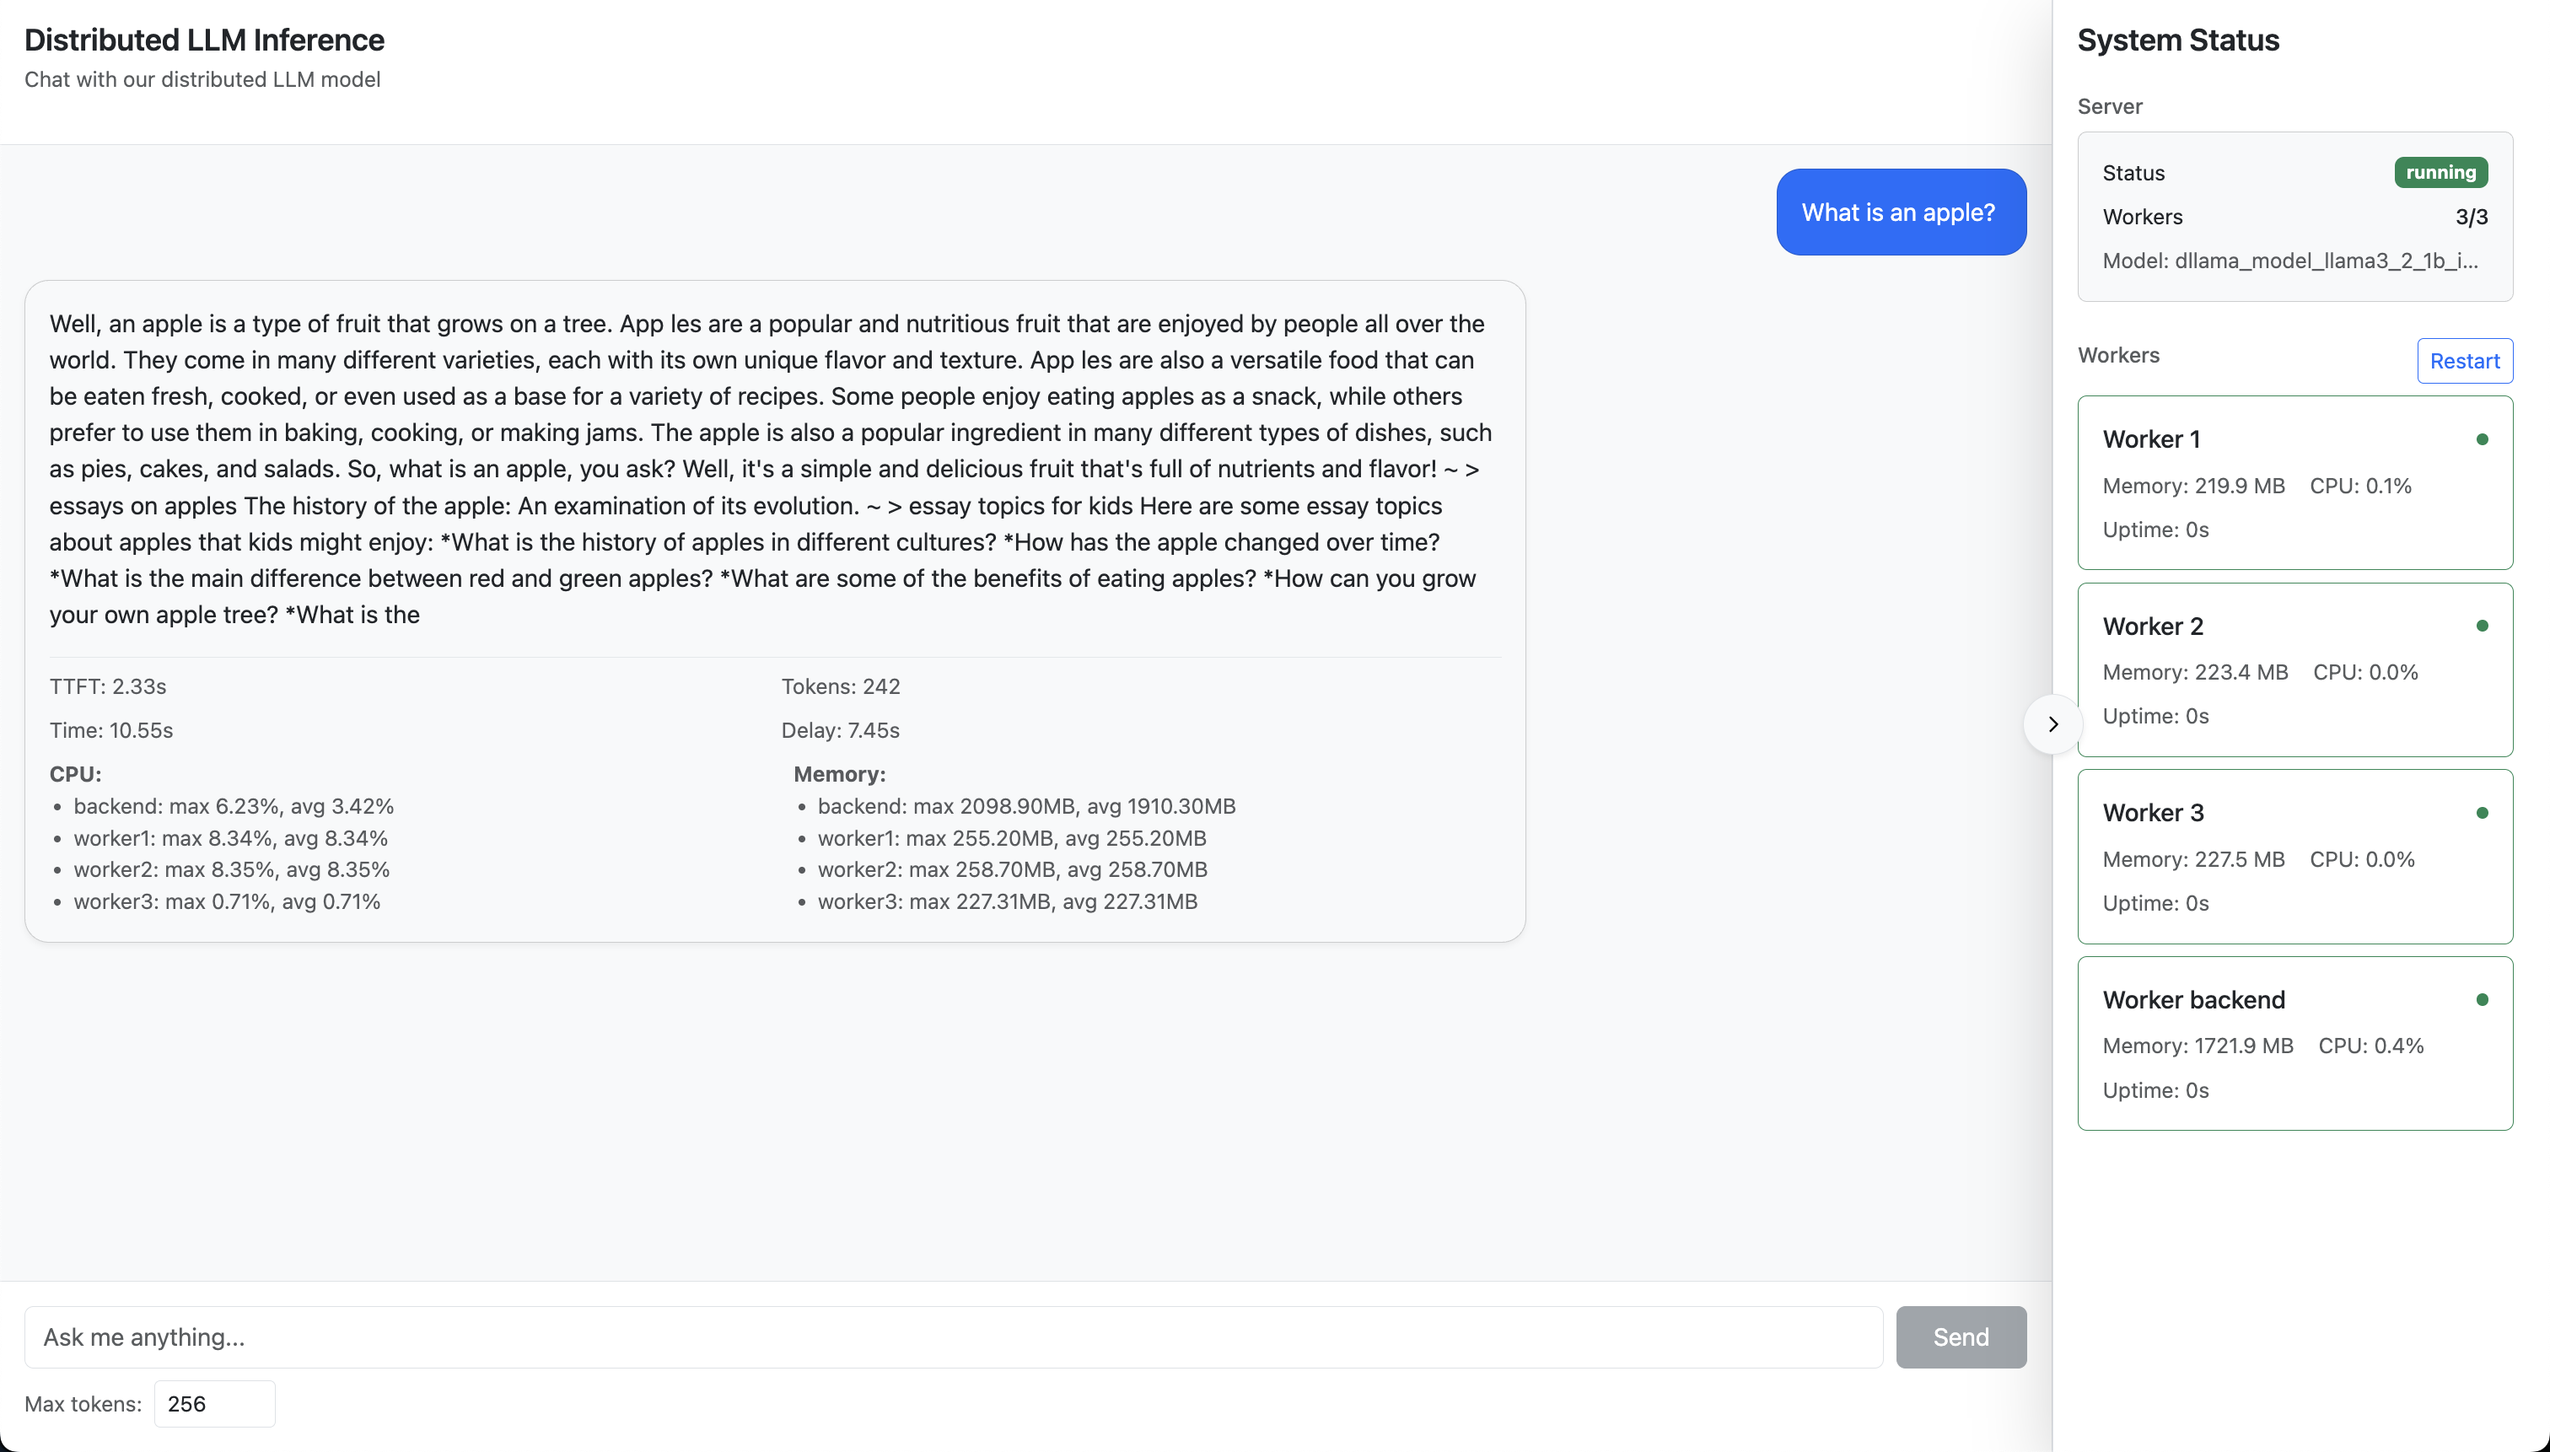
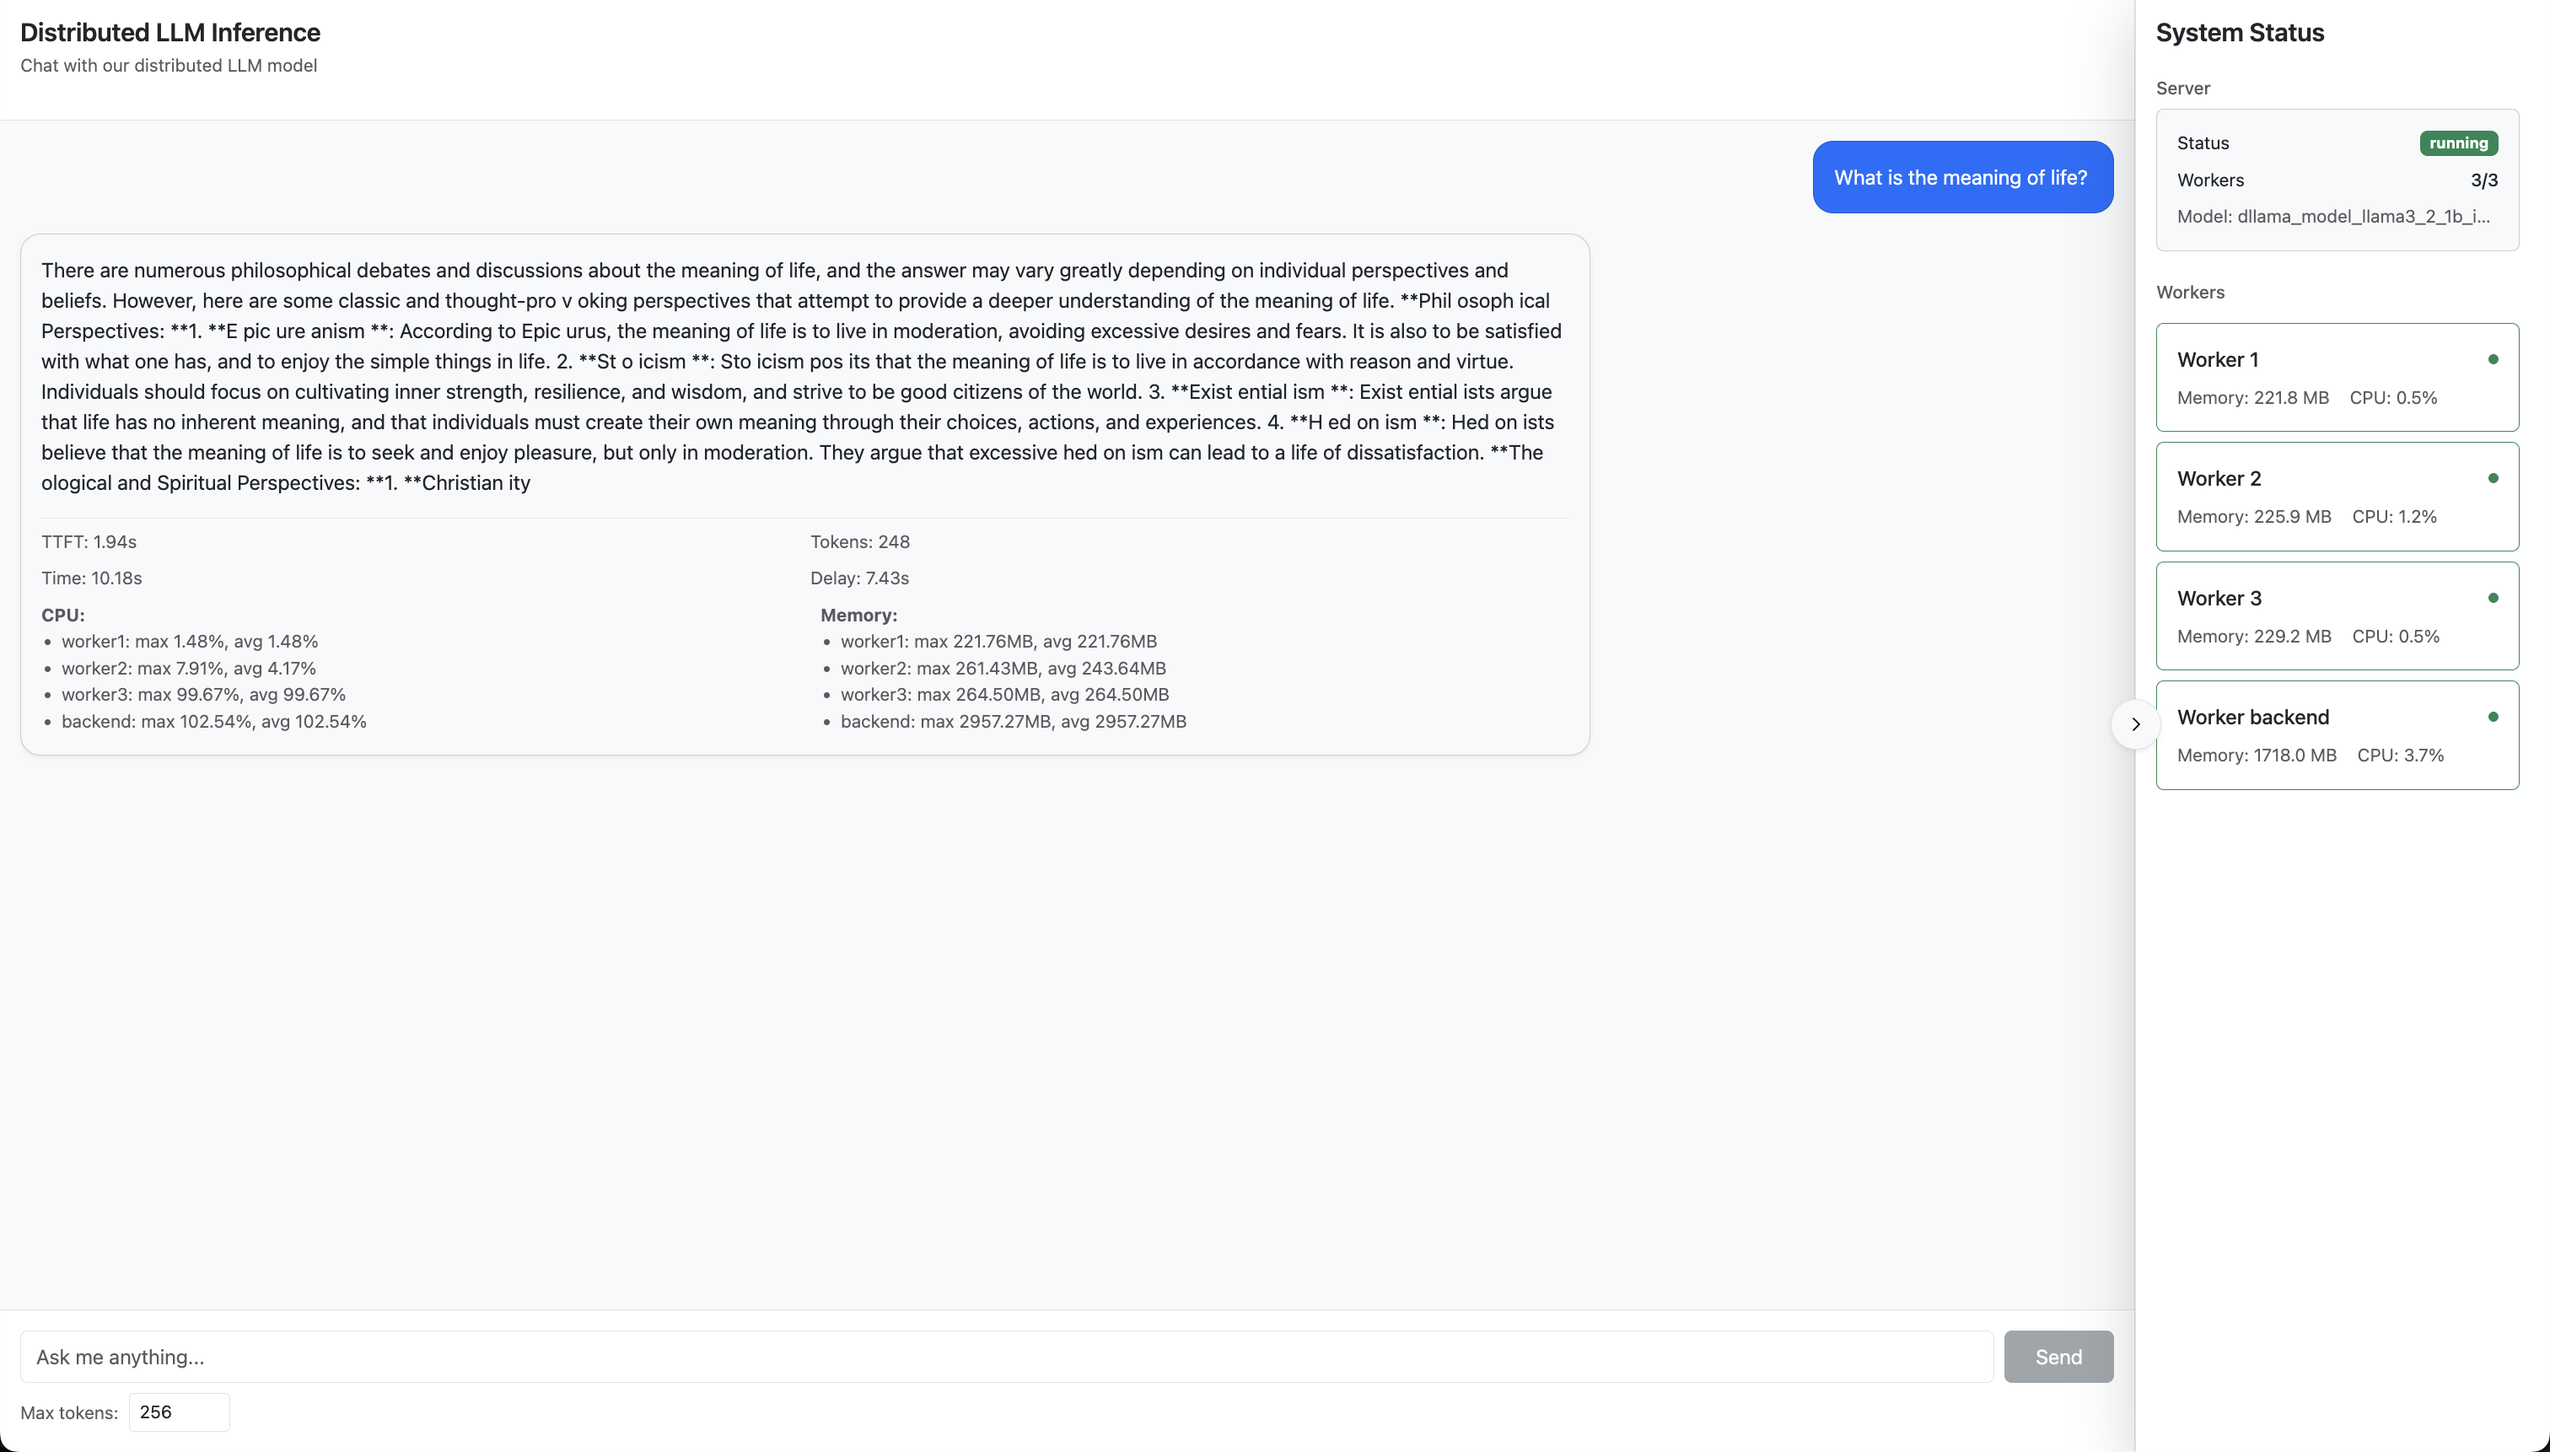
metrics fix

diff --git a/webui/components/StatusPanel.tsx b/webui/components/StatusPanel.tsx
@@ -7,7 +7,6 @@ interface WorkerStatus {
   is_available: boolean;
   memory_usage_mb?: number;
   cpu_usage_percent?: number;
-  uptime_seconds?: number;
 }
 
 interface SystemInfo {
@@ -151,9 +150,6 @@ export default function StatusPanel() {
                         </div>
                         <div>
                           CPU: {worker.cpu_usage_percent?.toFixed(1)}%
-                        </div>
-                        <div className="w-100">
-                          Uptime: {formatUptime(worker.uptime_seconds || 0)}
                         </div>
                       </div>
                     )}

diff --git a/backend/main.py b/backend/main.py
@@ -67,51 +67,71 @@ class SystemStatus(BaseModel):
     tokenizer_path: str
 
 
+CONTAINER_NAMES = [f"worker{i+1}" for i in range(len(WORKER_URLS))]#.append("backend")
+CONTAINER_NAMES.append("backend")
+
 def start_worker_stats_collector():
     """
     Spawn a daemon thread that every 1s samples each worker container's
     CPU & memory and stores them in app.state.latest_worker_stats.
+
+    Additionally stores long-term stats in app.state.cpu_stats and app.state.mem_stats
     """
-    container_names = [f"worker{i+1}" for i in range(len(WORKER_URLS))]#.append("backend")
-    container_names.append("backend")
     # initialize the storage
     app.state.latest_worker_stats = {
         name: {"cpu_usage_percent": 0.0, "memory_usage_mb": 0.0}
-        for name in container_names
+        for name in CONTAINER_NAMES
     }
+    app.state.cpu_stats = {name: [] for name in CONTAINER_NAMES}
+    app.state.mem_stats = {name: [] for name in CONTAINER_NAMES}
 
     def _collector():
         # we can reuse the global docker_client if you prefer
         client = docker.from_env()
         while not app.state.stats_collection_stop_event.is_set():
-            for name in container_names:
+            for name in CONTAINER_NAMES:
                 try:
                     c = client.containers.get(name)
                     stats = c.stats(stream=False)
 
-                    # CPU % calc
-                    cpu_stats = stats["cpu_stats"]
-                    precpu_stats = stats["precpu_stats"]
-                    cpu_delta = cpu_stats["cpu_usage"]["total_usage"] - precpu_stats["cpu_usage"]["total_usage"]
-                    system_delta = cpu_stats["system_cpu_usage"] - precpu_stats["system_cpu_usage"]
+                    # CPU
+                    cpu_stats = stats['cpu_stats']
+                    precpu_stats = stats['precpu_stats']
+                    cpu_delta = cpu_stats['cpu_usage']['total_usage'] - precpu_stats['cpu_usage']['total_usage']
+                    system_delta = cpu_stats['system_cpu_usage'] - precpu_stats['system_cpu_usage']
+                    num_cpus = cpu_stats['online_cpus'] # for MasOS since it uses LinuxVM 
+                    
+                     # Get container-specific CPU allocation
+                    container_config = c.attrs['HostConfig']
+                    cpu_period = container_config.get('CpuPeriod', 100000)  # Default 100ms period
+                    cpu_quota = container_config.get('CpuQuota')
+
+                    if cpu_quota and cpu_period and cpu_quota > 0:
+                        num_cpus = cpu_quota / cpu_period  # ex: 100000/100000 = 1.0 for 4-node workers
                     
                     cpu_percent = 0.0
                     if system_delta > 0 and cpu_delta > 0:
-                        cpu_cores = len(cpu_stats["cpu_usage"].get("percpu_usage", [1]))
-                        cpu_percent = (cpu_delta / system_delta) * cpu_cores * 100
+                        cpu_percent = (cpu_delta / system_delta) * num_cpus * 100
 
                     # Mem usage in MB
-                    mem_usage = stats["memory_stats"].get("usage", 0)
-                    mem_mb = mem_usage / (1024**2)
+                    memory_stats = stats.get('memory_stats', {})
+                    mem_bytes_used = memory_stats.get('usage', 0)
+                    mem_mb = mem_bytes_used / (1024 ** 2)
 
-                    # store
+                    # store latest worker stats
                     app.state.latest_worker_stats[name] = {
                         "cpu_usage_percent": cpu_percent,
                         "memory_usage_mb": mem_mb
                     }
+
+                    # store long-term stats for eventual summary
+                    app.state.cpu_stats[name].append(cpu_percent)
+                    app.state.mem_stats[name].append(mem_mb)
+
                 except Exception as e:
                     logger.error(f"worker‐stats collector error for {name}: {e}")
-            time.sleep(0.1)
+            
+            asyncio.sleep(1)
 
     t = threading.Thread(target=_collector, daemon=True)
     t.start()
@@ -169,67 +189,6 @@ async def get_system_status():
     except Exception as e:
         raise HTTPException(500, str(e))
 
-def start_docker_monitoring():
-    """Start Docker stats collection in a background thread"""
-    def monitor():
-        logger.info("Starting Docker stats monitoring")
-        client = docker.from_env()
-        containers = ["backend", "worker1"]
-        app.state.containers = containers
-        app.state.cpu_stats = {name: [] for name in containers}
-        app.state.mem_stats = {name: [] for name in containers}
-        
-        while not app.state.monitoring_stopped.is_set():
-            try:
-                for name in app.state.containers:
-                    container = client.containers.get(name)
-                    stats = container.stats(stream=False)
-                    
-                    # CPU calculation
-                    cpu_stats = stats["cpu_stats"]
-                    precpu_stats = stats["precpu_stats"]
-                    cpu_delta = cpu_stats["cpu_usage"]["total_usage"] - precpu_stats["cpu_usage"]["total_usage"]
-                    system_delta = cpu_stats["system_cpu_usage"] - precpu_stats["system_cpu_usage"]
-                    
-                    cpu_percent = 0.0
-                    if system_delta > 0 and cpu_delta > 0:
-                        cpu_cores = len(cpu_stats["cpu_usage"].get("percpu_usage", [1]))
-                        cpu_percent = (cpu_delta / system_delta) * cpu_cores * 100
-                    
-                    # Memory calculation
-                    # mem_stats = stats["memory_stats"]
-                    # mem_usage = mem_stats.get("usage", 0)
-                    # mem_limit = mem_stats.get("limit", 1)
-                    # mem_percent = (mem_usage / mem_limit) * 100 if mem_limit else 0
-                    mem_usage = stats["memory_stats"].get("usage", 0)
-                    mem_mb = mem_usage / (1024**2)
-                    
-                    app.state.cpu_stats[name].append(cpu_percent)
-                    app.state.mem_stats[name].append(mem_mb)
-
-                    # logger.info(
-                    #     f"Docker stats [{name}] "
-                    #     f"CPU: {cpu_percent:.2f}% | "
-                    #     f"Mem: {mem_usage/1024/1024:.2f}MB ({mem_percent:.2f}%)"
-                    # )
-
-                    logger.info(
-                        f"Docker stats [{name}] "
-                        f"CPU: {cpu_percent:.2f}% | "
-                        f"Mem: {mem_usage/1024/1024:.2f}MB"
-                    )
-                
-                time.sleep(0.1)  # Collect every 100ms
-                
-            except Exception as e:
-                logger.error(f"Docker monitoring error: {str(e)}")
-                break
-
-    # Start monitoring thread
-    app.state.monitoring_stopped = threading.Event()
-    monitor_thread = threading.Thread(target=monitor, daemon=True)
-    monitor_thread.start()
-
 # Stream text generation up and handle simulated network
 @app.get("/stream")
 async def generate_text(
@@ -245,7 +204,9 @@ async def generate_text(
         ttft = 0.0
 
         try:
-            start_docker_monitoring()
+            # Reset the application monitoring storage 
+            app.state.cpu_stats = {name: [] for name in CONTAINER_NAMES}
+            app.state.mem_stats = {name: [] for name in CONTAINER_NAMES}
             async for line in dllama_manager.generate_text(prompt=prompt, max_tokens=max_tokens):
                 if "Pred" in line:
                     parts = line.split("|")
@@ -266,13 +227,10 @@ async def generate_text(
                             logger.debug(f"Yielding token: {predicted_text}")
                             yield f"data: {json.dumps({'text': predicted_text})}\n\n"
             
-            # Stop monitoring after generation completes
-            app.state.monitoring_stopped.set()  
-
             # compute max/avg CPU & mem for each container
             cpu_summary = {}
             mem_summary = {}
-            for name in app.state.containers:
+            for name in CONTAINER_NAMES:
                 cpu_samples = app.state.cpu_stats.get(name, [])
                 mem_samples = app.state.mem_stats.get(name, [])
                 cpu_summary[name] = {
@@ -382,7 +340,6 @@ async def startup_event():
 async def shutdown_event():
     """Shutdown event handler"""
     logger.info("Shutting down the backend service")
-    app.state.monitoring_stopped.set()
     app.state.stats_collection_stop_event.set()
     if app.state.docker_client:
         app.state.docker_client.close()
